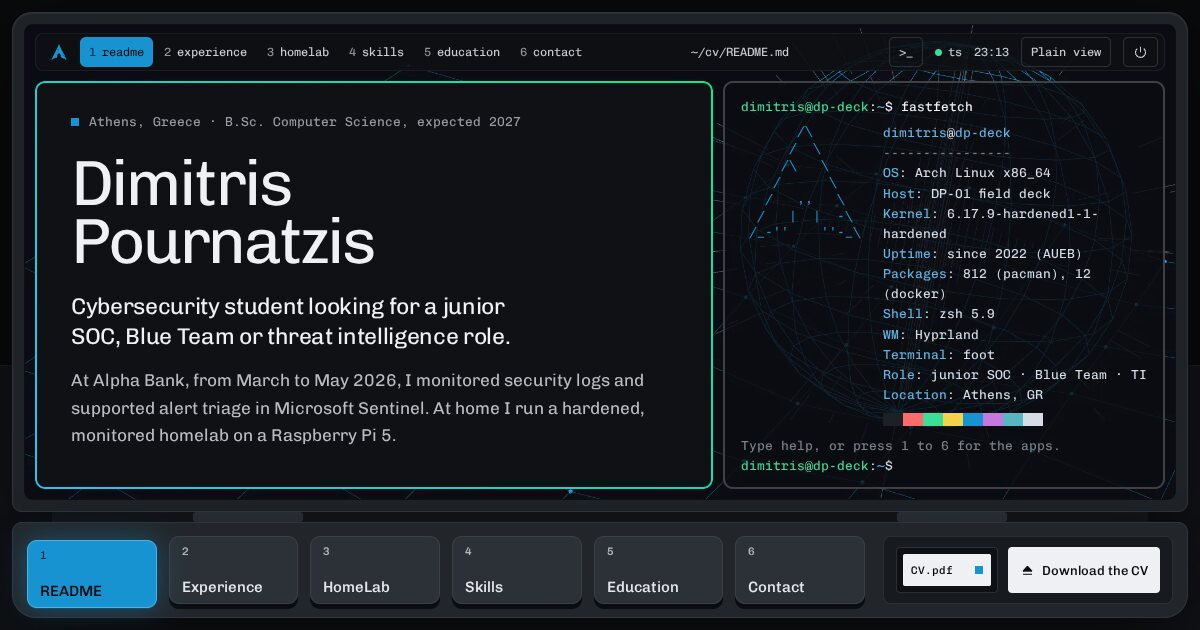
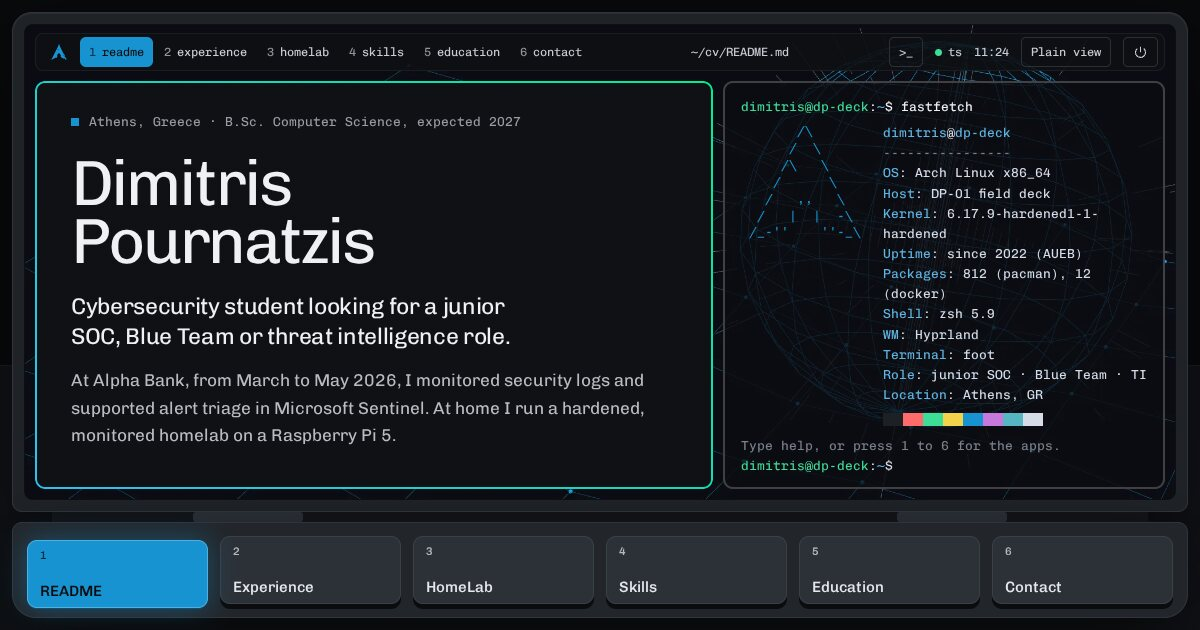
Take the CV download off the site
The CV PDF is no longer offered: the nav, menu, intro, README app and
contact buttons, the launcher item and the CV.pdf cartridge are gone,
and the terminal's cv command now says the CV is not public and points
to email. Email me takes the button slots that need one. The contact
heading is now just Contact, the link preview is re-rendered without
the cartridge, and the README drops its PDF link.

diff --git a/docs/index.html b/docs/index.html
@@ -29,13 +29,13 @@
 <link rel="preload" href="assets/fonts/chivo-latin-wght.woff2" as="font" type="font/woff2" crossorigin>
 <link rel="preload" href="assets/fonts/chivo-mono-latin-wght.woff2" as="font" type="font/woff2" crossorigin>
 <link rel="stylesheet" href="assets/css/site.css?v=3">
-<link rel="stylesheet" href="assets/css/deck.css?v=3">
+<link rel="stylesheet" href="assets/css/deck.css?v=4">
 <script src="assets/js/boot.js?v=3"></script>
 <script src="assets/js/vendor/gsap.min.js" integrity="sha384-HOvlOYPIs/zjoIkWUGXkVmXsjr8GuZLV+Q+rcPwmJOVZVpvTSXQChiN4t9Euv9Vc" defer></script>
 <script src="assets/js/vendor/ScrollTrigger.min.js" integrity="sha384-P8VzCVnT9NBUkMrpcIZrJbA7EBjJvh/fJS6PmP+4nLIM284DtsImIv8D0fFjIkeh" defer></script>
 <script src="assets/js/vendor/DrawSVGPlugin.min.js" integrity="sha384-hk4mr+NXgJSfCJFF+LKzt26e6ZekZmmXAesF9r58nbaoAqB/VAlvY4T8k2plkXf+" defer></script>
 <script src="assets/js/app.js?v=3" defer></script>
-<script src="assets/js/deck.js?v=3" defer></script>
+<script src="assets/js/deck.js?v=4" defer></script>
 </head>
 <body>
 <!-- Deal (tasteskill 2.5): palette cool-grey-cobalt (plain view) with Arch blue in the deck, type Chivo + Chivo Mono, radius sharp.
@@ -56,7 +56,7 @@
       <a href="#contact">Contact</a>
     </nav>
     <button class="btn btn--ghost btn--sm nav__deck" type="button" data-mode="deck" hidden>Open the deck</button>
-    <a class="btn btn--primary btn--sm nav__cta" href="/Dimitris-Pournatzis-CV.pdf" download>Download the CV</a>
+    <a class="btn btn--primary btn--sm nav__cta" href="mailto:dvpournatzis@proton.me">Email me</a>
     <button class="nav__toggle" id="menuToggle" type="button" aria-expanded="false" aria-controls="menu" aria-label="Open the menu">
       <span aria-hidden="true"></span><span aria-hidden="true"></span>
     </button>
@@ -71,7 +71,7 @@
     <a href="#education">Education</a>
     <a href="#contact">Contact</a>
     <button class="btn btn--ghost menu__deck" type="button" data-mode="deck" hidden>Open the deck</button>
-    <a class="btn btn--primary menu__cta" href="/Dimitris-Pournatzis-CV.pdf" download>Download the CV</a>
+    <a class="btn btn--primary menu__cta" href="mailto:dvpournatzis@proton.me">Email me</a>
   </nav>
 </div>
 
@@ -83,7 +83,6 @@
     <p class="intro__line">Cybersecurity student in Athens · junior SOC, Blue Team and threat intelligence</p>
     <div class="intro__actions">
       <button class="btn btn--arch" id="openDeck" type="button">Open the deck</button>
-      <a class="btn btn--ghost-inv" href="/Dimitris-Pournatzis-CV.pdf" download>Download the CV</a>
     </div>
     <p class="intro__hint"><span class="intro__key">or press Enter</span> · <button class="intro__plain" type="button" data-mode="plain">Plain view</button></p>
   </div>
@@ -144,9 +143,7 @@
       <p class="hero__role enter-fade">Cybersecurity student looking for a junior SOC, Blue&nbsp;Team or threat intelligence role.</p>
       <p class="hero__lead enter-fade">At Alpha Bank, from March to May 2026, I monitored security logs and supported alert triage in Microsoft Sentinel. At home I run a hardened, monitored homelab on a Raspberry&nbsp;Pi&nbsp;5.</p>
       <div class="hero__actions enter-fade">
-        <a class="btn btn--primary" href="/Dimitris-Pournatzis-CV.pdf" download>
-          <svg class="btn__ic" viewBox="0 0 24 24" aria-hidden="true"><path d="M12 4v11m0 0 4.5-4.5M12 15l-4.5-4.5M5 20h14"/></svg>Download the CV</a>
-        <a class="btn btn--ghost" href="mailto:dvpournatzis@proton.me">Email me</a>
+        <a class="btn btn--primary" href="mailto:dvpournatzis@proton.me">Email me</a>
       </div>
       <p class="hero__deckhint">Use the keys under the screen, the bar at the top, or 1 to 6 on your keyboard. The terminal takes commands too: try <kbd>help</kbd>.</p>
     </div>
@@ -458,7 +455,7 @@
   <!-- 6 · CONTACT (dark close) -->
   <section class="sec sec--dark close app" id="contact" data-ws="6" data-slug="contact" data-title="contact/" aria-labelledby="contact-h" data-theme="dark">
     <div class="wrap close__in">
-      <h2 id="contact-h">Contact and CV</h2>
+      <h2 id="contact-h">Contact</h2>
       <p class="sec__sub">I'm in Athens, Greece, looking for a junior SOC Analyst, Blue Team or Threat Intelligence role. Email is the best way to reach me.</p>
       <div class="close__mail">
         <a class="close__addr" href="mailto:dvpournatzis@proton.me">dvpournatzis@proton.me</a>
@@ -466,10 +463,6 @@
           <svg class="copy__ic" viewBox="0 0 24 24" aria-hidden="true"><rect class="i-copy" x="8" y="8" width="12" height="12" rx="1.5"/><path class="i-copy" d="M16 8V5.5A1.5 1.5 0 0 0 14.5 4h-9A1.5 1.5 0 0 0 4 5.5v9A1.5 1.5 0 0 0 5.5 16H8"/><path class="i-done" d="m5 12.5 4.5 4.5L19 7.5"/></svg>
           <span class="copy__txt" aria-live="polite">Copy the address</span>
         </button>
-      </div>
-      <div class="close__actions">
-        <a class="btn btn--inv" href="/Dimitris-Pournatzis-CV.pdf" download>
-          <svg class="btn__ic" viewBox="0 0 24 24" aria-hidden="true"><path d="M12 4v11m0 0 4.5-4.5M12 15l-4.5-4.5M5 20h14"/></svg>Download the CV</a>
       </div>
       <ul class="close__links">
         <li><a class="tile" href="https://github.com/DimPourn" target="_blank" rel="noopener noreferrer"><img class="tile__ic tile__ic--ink" loading="lazy" src="assets/icons/github.svg" alt="" width="24" height="24"><span>GitHub</span></a></li>
@@ -521,7 +514,6 @@
           <li><button type="button" data-ws="5"><span class="l__k">5</span>Education</button></li>
           <li><button type="button" data-ws="6"><span class="l__k">6</span>Contact</button></li>
                 <li><button type="button" data-act="term"><span class="l__k">&gt;_</span>Terminal (foot)</button></li>
-                <li><button type="button" data-act="cv"><span class="l__k">pdf</span>Download the CV</button></li>
                 <li><button type="button" data-mode="plain"><span class="l__k">txt</span>Plain view</button></li>
                 <li><button type="button" data-act="lid"><span class="l__k">off</span>Close the lid</button></li>
               </ul>
@@ -544,10 +536,6 @@
         <button class="key" type="button" data-ws="4" aria-pressed="false"><span class="key__n">4</span><span class="key__l">Skills</span></button>
         <button class="key" type="button" data-ws="5" aria-pressed="false"><span class="key__n">5</span><span class="key__l">Education</span></button>
         <button class="key" type="button" data-ws="6" aria-pressed="false"><span class="key__n">6</span><span class="key__l">Contact</span></button>
-      </div>
-      <div class="cart">
-        <div class="cart__slot" aria-hidden="true"><span class="cart__chip" id="cartChip">CV.pdf<i></i></span></div>
-        <a class="cart__eject" id="eject" href="/Dimitris-Pournatzis-CV.pdf" download><svg viewBox="0 0 24 24" aria-hidden="true"><path d="m12 5 7 8H5z"/><path d="M5 18h14"/></svg>Download the CV</a>
       </div>
     </div>
 

diff --git a/docs/assets/js/deck.js b/docs/assets/js/deck.js
@@ -27,7 +27,6 @@
   var barTitle = $('#barTitle'), announce = $('#announce');
   var launcher = $('#launcher'), launchBtn = $('#launchBtn'), launchIn = $('#launchIn');
   var termBtn = $('#termBtn'), wallBtn = $('#wallBtn'), wallGL = $('#wallGL'), clock = $('#barClock');
-  var eject = $('#eject'), cartChip = $('#cartChip');
   var latches = $$('.case__latch');
   var keyBtns = $$('.keys .key'), wsBtns = $$('.bar__ws button');
   var apps = $$('#main > .app').sort(function (a, b) { return +a.getAttribute('data-ws') - +b.getAttribute('data-ws'); });
@@ -76,7 +75,7 @@
       ['Location', 'Athens, GR']
     ];
     var DIRS = {
-      '~': ['experience/', 'homelab/', 'skills/', 'education/', 'contact/', 'README.md', 'cv.pdf'],
+      '~': ['experience/', 'homelab/', 'skills/', 'education/', 'contact/', 'README.md'],
       '~/experience': ['alpha-bank.md', 'zippo-hellas.md', 'house-of-david.md'],
       '~/homelab': ['README.md'],
       '~/skills': ['skills.txt'],
@@ -95,7 +94,7 @@
       '~/skills/skills.txt': ['security operations   Microsoft Sentinel, log monitoring, alert triage, phishing simulations', 'threat intelligence   IOC analysis workflows, threat reporting', 'host and network      Linux, UFW, CrowdSec, Fail2ban, Tailscale (WireGuard), TLS, Pi-hole, Unbound', 'monitoring            Prometheus, Grafana, Loki, Promtail, Alertmanager', 'security testing      Nmap, Wireshark, Hydra, Kali Linux', 'infrastructure        Docker Compose, bridge networks, least privilege, Git, off-site backups'],
       '~/education/aueb.md': ['## B.Sc. Computer Science, cybersecurity path', 'Athens University of Economics and Business · 2022 – expected 2027'],
       '~/education/certifications.md': ['- OffSec: Threat Hunting Foundations badge', '- OffSec: Security Essentials (SEC100), learning path completed', '- OffSec: Foundational Threat Hunting (TH-200), learning path completed', '- Cadmus: Cyber Regulatory Compliance & Policy Management', '- English: Cambridge English C2 Proficiency (CPE) · Japanese: JLPT N5', '- ISC2 Student Member · 16th Infocom Security Conference'],
-      '~/contact/contact.txt': ['email     dvpournatzis@proton.me', 'github    github.com/DimPourn', 'linkedin  linkedin.com/in/dimpournatzis', ['Type email to write to me, or cv for the PDF.', 'dim']]
+      '~/contact/contact.txt': ['email     dvpournatzis@proton.me', 'github    github.com/DimPourn', 'linkedin  linkedin.com/in/dimpournatzis', ['Type email to write to me.', 'dim']]
     };
     var APPS = { readme: 1, experience: 2, homelab: 3, skills: 4, education: 5, contact: 6 };
     var CMDS = ['help', 'ls', 'cd', 'cat', 'open', 'clear', 'whoami', 'fastfetch', 'neofetch', 'man', 'systemctl', 'journalctl',
@@ -104,7 +103,7 @@
     var HELP = [
       ['apps      readme  experience  homelab  skills  education  contact', 'blue'],
       'files     ls  cd <dir>  cat <file>  pwd',
-      'cv        cv (download the PDF)  email  plain (plain view)',
+      'contact   email (write to me)  plain (plain view)',
       'system    whoami  fastfetch  man dimitris  systemctl status dimitris',
       ['Keys 1 to 6 and the bar at the top switch apps too. Tab completes, arrows recall.', 'dim']
     ];
@@ -226,7 +225,6 @@
         return items.map(function (i) {
           if (i.slice(-1) === '/') return 'drwxr-xr-x 2 dimitris dimitris 4096 Nov 25 ' + i;
           if (i === '.flag') return '-r-------- 1 dimitris dimitris   33 Nov 25 .flag';
-          if (i === 'cv.pdf') return '-rw-r--r-- 1 dimitris dimitris  59K Nov 25 cv.pdf';
           return '-rw-r--r-- 1 dimitris dimitris  412 Nov 25 ' + i;
         });
       }
@@ -240,7 +238,6 @@
       if (p === '/etc/hostname') return ['dp-deck'];
       var key = resolve(p);
       if (FILES[key]) return FILES[key].slice();
-      if (key === '~/cv.pdf') return [['cat: cv.pdf: binary file. Try: cv', 'err']];
       if (DIRS[key]) return [['cat: ' + p + ': Is a directory', 'err']];
       return [['cat: ' + p + ': No such file or directory', 'err']];
     }
@@ -287,7 +284,7 @@
         '       Monitors logs, triages alerts, builds and hardens infrastructure,', '       and writes up what broke and why.', '',
         'OPTIONS', '       --soc          log monitoring and alert triage (Microsoft Sentinel)', '       --threat-intel IOC analysis and threat reporting',
         '       --blue-team    hardening, monitoring and testing the controls', '', 'BUGS',
-        '       Documents incidents in more detail than strictly necessary.', '', 'SEE ALSO', '       sh_lab(7), cv.pdf(5)'];
+        '       Documents incidents in more detail than strictly necessary.', '', 'SEE ALSO', '       sh_lab(7)'];
     }
     function systemctl(a) {
       var verb = a[1] || '', unit = (a[2] || '').replace(/\.service$/, '');
@@ -330,8 +327,7 @@
       return pre;
     }
     function cv() {
-      eject.click();
-      return [['Downloading Dimitris-Pournatzis-CV.pdf ...', 'ok']];
+      return [['My CV is not public. Type email and ask me for a copy.', 'dim']];
     }
 
     function exec(cmd, a) {
@@ -342,7 +338,7 @@
       if (name === 'open' || name === 'xdg-open') {
         var t = (a[1] || '').replace(/\/$/, '').toLowerCase();
         if (APPS[t]) return openApp(t);
-        if (t === 'cv' || t === 'cv.pdf') return cv();
+        if (t === 'cv') return cv();
         return [['open: ' + (a[1] || '') + ': no such app. Try: open homelab', 'err']];
       }
       if (name === 'cd') return cd(a[1]);
@@ -711,7 +707,6 @@
     if (b.hasAttribute('data-mode')) return;
     if (b.getAttribute('data-ws')) setWS(+b.getAttribute('data-ws'));
     else if (b.getAttribute('data-act') === 'term') openTerm();
-    else if (b.getAttribute('data-act') === 'cv') eject.click();
     else if (b.getAttribute('data-act') === 'lid') closeLid();
   });
 
@@ -847,9 +842,6 @@
     }
   });
   $('#lidBtn').addEventListener('click', closeLid);
-  eject.addEventListener('click', function () {
-    if (!mqReduce.matches) gsap.fromTo(cartChip, { y: 0 }, { y: -10, duration: 0.16, yoyo: true, repeat: 1, ease: 'power2.out' });
-  });
   wm.addEventListener('focusin', function (e) { var w = e.target.closest('.win'); if (w) focusWin(w); });
   wm.addEventListener('pointerdown', function (e) { var w = e.target.closest('.win'); if (w) focusWin(w); });
   $('.skip').addEventListener('click', function (e) {

diff --git a/docs/assets/css/deck.css b/docs/assets/css/deck.css
@@ -103,23 +103,6 @@
 .key:active { transform: translateY(5px); box-shadow: 0 0 0 #0b0c0e; transition-duration: 60ms; }
 .key:focus-visible { outline: 2px solid var(--arch-hi); outline-offset: 3px; }
 
-/* cartridge */
-.cart {
-  display: flex; align-items: center; gap: 10px; flex: none;
-  width: 290px; height: 84px; box-sizing: border-box; padding: 0 12px;
-  border-radius: 8px; background: #171a1e; border: 1px solid #2a2f36;
-}
-.cart__slot { flex: 1; min-width: 0; height: 46px; box-sizing: border-box; padding: 6px; border-radius: 4px; background: #0e1013; border: 1px solid #2a2f36; overflow: hidden; }
-.cart__chip { display: flex; align-items: center; justify-content: space-between; height: 100%; padding: 0 8px; border-radius: 2px; background: #eef0f3; color: #0b0c0e; font: 500 11px var(--mono); }
-.cart__chip i { width: 8px; height: 8px; background: var(--arch); }
-.cart__eject {
-  display: inline-flex; align-items: center; gap: 7px; height: 46px; padding: 0 12px;
-  border-radius: 4px; background: #eef0f3; color: #0b0c0e; text-decoration: none; font: 500 13px var(--font); white-space: nowrap;
-  transition: transform 120ms var(--ease), background-color 120ms var(--ease);
-}
-.cart__eject svg { width: 15px; height: 15px; fill: currentColor; stroke: currentColor; stroke-width: 1.6; stroke-linejoin: round; }
-@media (hover: hover) and (pointer: fine) { .cart__eject:hover { background: #fff; transform: translateY(-1px); } }
-.cart__eject:active { transform: translateY(1px) scale(.985); }
 
 /* ── The case exterior (closed) ───────────────────────────────────── */
 .deck-on .case { display: block; position: absolute; inset: 0; z-index: 8; container-type: size; cursor: pointer; }
@@ -383,8 +366,6 @@
 @media (max-width: 1099.98px) {
   .keys { gap: 8px; }
   .key { padding: 8px 10px; font-size: 13px; }
-  .cart { width: auto; padding: 0 10px; }
-  .cart__slot { display: none; }
   .ws__l { display: none; }
   .bar__ws button { min-width: 30px; justify-content: center; padding: 0 6px; }
   .ws__n { opacity: 1; }
@@ -399,7 +380,7 @@
 }
 @media (max-height: 720px) and (min-width: 700px) {
   .deck-on .deck__base { height: 96px; padding: 10px 14px; }
-  .key, .cart { height: 68px; }
+  .key { height: 68px; }
   .key { padding: 8px 12px; }
 }
 
@@ -415,7 +396,6 @@
   .key { flex-direction: row; justify-content: flex-start; align-items: center; gap: 8px; height: 46px; padding: 0 10px; font-size: 14px; box-shadow: 0 4px 0 #0b0c0e; border-radius: 8px; }
   .key[aria-pressed="true"] { transform: translateY(3px); box-shadow: 0 1px 0 #0b4f73; }
   .key__n { font-size: 10px; }
-  .cart { display: none; }
 
   .deck-on .bar { left: 6px; right: 6px; top: 6px; height: 44px; gap: 8px; padding: 0 4px; }
   .bar__ws, .bar__ts, .bar__plain, .bar__lid, .bar__wall { display: none; }

diff --git a/README.md b/README.md
@@ -8,7 +8,6 @@
 
 <p align="center">
   <a href="https://dimpourn.github.io/DimPournCV/"><b>Live site</b></a> ·
-  <a href="https://dimpourn.github.io/Dimitris-Pournatzis-CV.pdf"><b>PDF CV</b></a> ·
   <a href="https://dimpourn.github.io/sh_lab/">Homelab</a> ·
   <a href="https://www.linkedin.com/in/dimpournatzis/">LinkedIn</a>
 </p>
